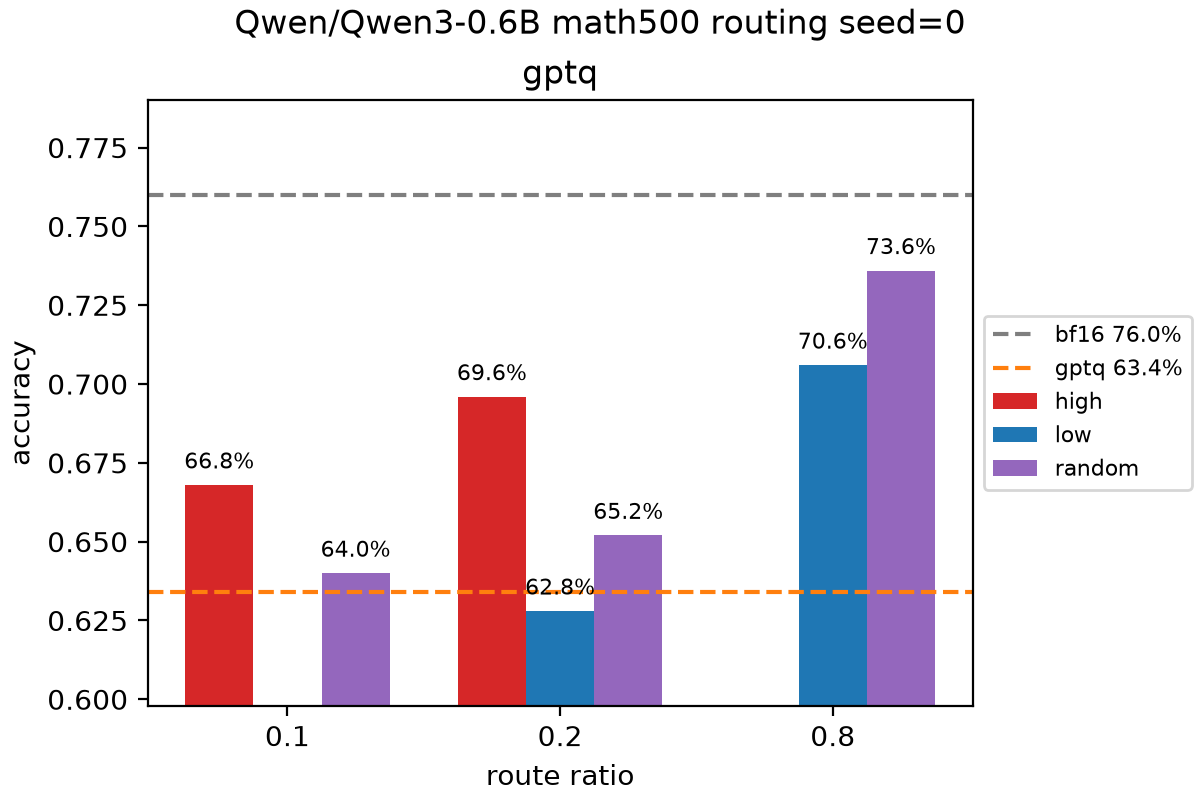
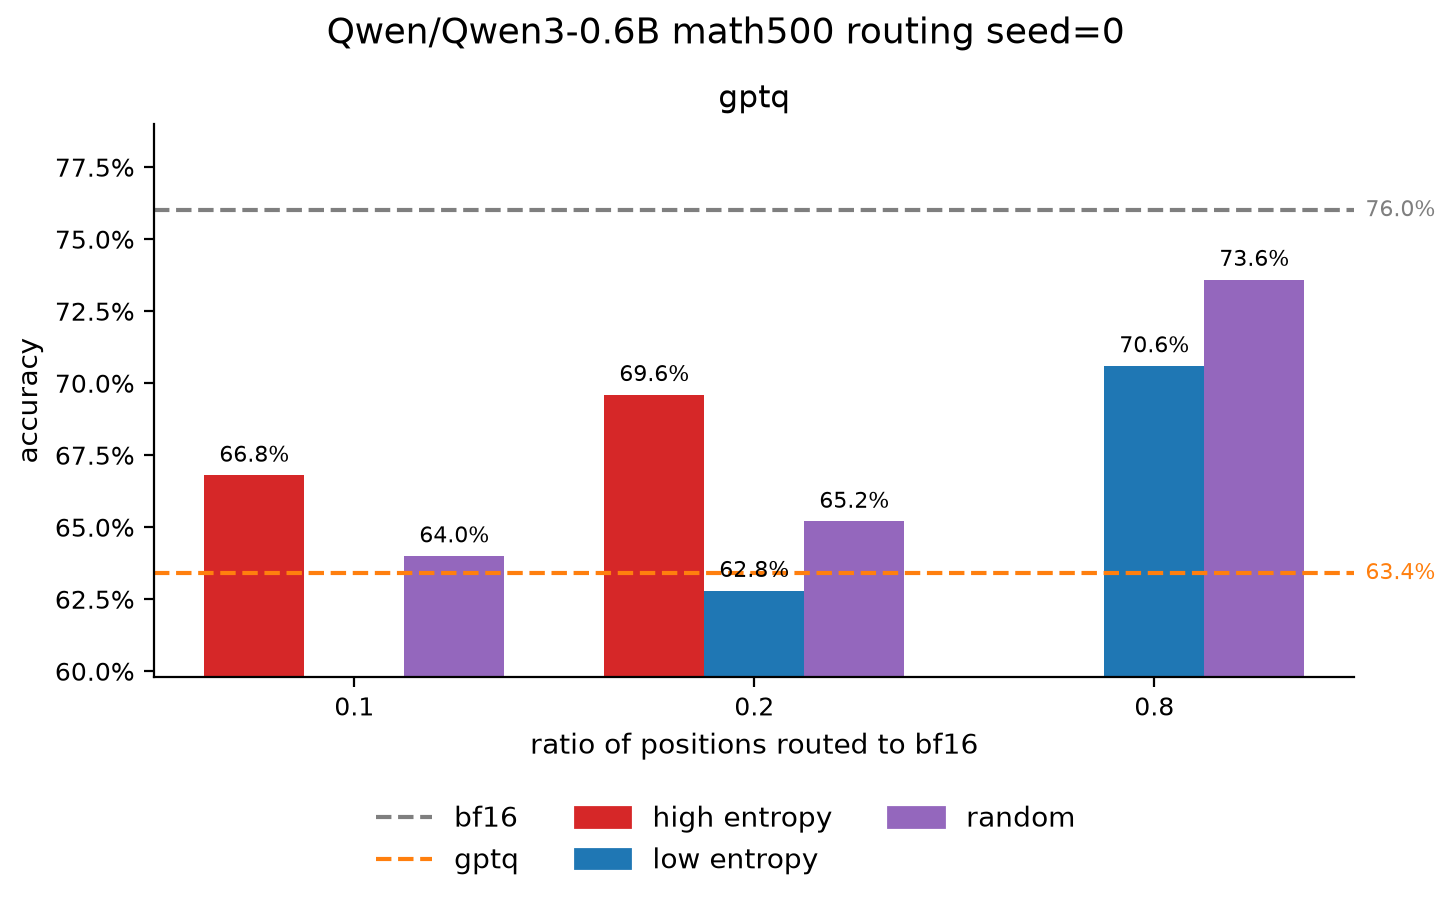
unify plot style for math500 and routing

Changed region(s): [[0.0, 0.125, 1.0, 1.0], [0.185, 0.0, 0.8017, 0.125]]

diff --git a/plots/routing.py b/plots/routing.py
@@ -1,13 +1,18 @@
 from dataclasses import dataclass
+import math
 
+from matplotlib.lines import Line2D
+from matplotlib.patches import Patch
 import matplotlib.pyplot as plt
+from matplotlib.ticker import PercentFormatter
 from simple_parsing import parse
 
 from primitives.hub import load_result, result_exists
 from primitives.paths import make_quantized_path, make_routing_path, make_target_path
-from primitives.plot import METHOD_COLORS, save_figure
+from primitives.plot import METHOD_COLORS, fit_bar_width, get_figsize, get_panel_width, plot_bars, save_figure
 
 ROUTE_COLORS = {"high": "tab:red", "low": "tab:blue", "random": "tab:purple"}
+ROUTE_LABELS = {"high": "high entropy", "low": "low entropy", "random": "random"}
 ROUTE_RATIOS = [0.1, 0.2, 0.8]
 
 
@@ -29,31 +34,33 @@ def main() -> None:
         if result_exists("math500", make_quantized_path(method, config.model_name, config.num_bits, config.group_size, config.num_samples), file_name):
             methods.append(method)
 
-    fig, axes = plt.subplots(1, len(methods), figsize=(6 * len(methods), 4), layout="constrained", squeeze=False)
+    panel_widths = [get_panel_width(len(ROUTE_RATIOS), len(ROUTE_COLORS))] * len(methods)
+    fig, axes = plt.subplots(1, len(methods), figsize=get_figsize(panel_widths, 1), width_ratios=panel_widths, layout="constrained", squeeze=False)
     for ax, method in zip(axes[0], methods):
         quantized_path = make_quantized_path(method, config.model_name, config.num_bits, config.group_size, config.num_samples)
-        ax.axhline(bf16_accuracy, color=METHOD_COLORS["bf16"], linestyle="--", label=f"bf16 {bf16_accuracy:.1%}")
         quantized_accuracy = load_result("math500", quantized_path, file_name)["accuracy"]
-        ax.axhline(quantized_accuracy, color=METHOD_COLORS[method], linestyle="--", label=f"{method} {quantized_accuracy:.1%}")
-        all_accuracies = [bf16_accuracy, quantized_accuracy]
-        for offset, (route, color) in zip([-0.25, 0, 0.25], ROUTE_COLORS.items()):
-            xs, accuracies = [], []
-            for x, route_ratio in enumerate(ROUTE_RATIOS):
+        for line_method, line_accuracy in [("bf16", bf16_accuracy), (method, quantized_accuracy)]:
+            ax.axhline(line_accuracy, color=METHOD_COLORS[line_method], linestyle="--")
+            ax.annotate(f"{line_accuracy:.1%}", (1, line_accuracy), xycoords=("axes fraction", "data"), xytext=(4, 0), textcoords="offset points", va="center", fontsize=8, color=METHOD_COLORS[line_method])
+        groups = []
+        for route, color in ROUTE_COLORS.items():
+            accuracies = []
+            for route_ratio in ROUTE_RATIOS:
                 target = make_routing_path(quantized_path, route_ratio, route)
-                if result_exists("math500", target, file_name):
-                    xs.append(x + offset)
-                    accuracies.append(load_result("math500", target, file_name)["accuracy"])
-            ax.bar(xs, accuracies, width=0.25, color=color, label=route)
-            all_accuracies += accuracies
-            for x, accuracy in zip(xs, accuracies):
-                ax.annotate(f"{accuracy:.1%}", (x, accuracy), xytext=(0, 4), textcoords="offset points", ha="center", va="bottom", fontsize=8)
-        ax.set_xticks(range(len(ROUTE_RATIOS)), ROUTE_RATIOS)
-        ax.set_xlabel("route ratio")
+                accuracies.append(load_result("math500", target, file_name)["accuracy"] if result_exists("math500", target, file_name) else math.nan)
+            groups.append((accuracies, color, ["" if math.isnan(accuracy) else f"{accuracy:.1%}" for accuracy in accuracies]))
+        plot_bars(ax, ROUTE_RATIOS, groups)
+        all_accuracies = [bf16_accuracy, quantized_accuracy] + [accuracy for accuracies, _, _ in groups for accuracy in accuracies if not math.isnan(accuracy)]
+        ax.set_xlabel("ratio of positions routed to bf16")
         ax.set_ylabel("accuracy")
         ax.set_ylim(min(all_accuracies) - 0.03, max(all_accuracies) + 0.03)
+        ax.yaxis.set_major_formatter(PercentFormatter(1))
         ax.set_title(method)
-        ax.legend(fontsize=8, loc="center left", bbox_to_anchor=(1, 0.5))
     fig.suptitle(f"{config.model_name} math500 routing {file_name}")
+    handles = [Line2D([], [], color=METHOD_COLORS[method], linestyle="--", label=method) for method in ["bf16", *methods]]
+    handles += [Patch(color=color, label=ROUTE_LABELS[route]) for route, color in ROUTE_COLORS.items()]
+    fig.legend(handles=handles, loc="outside lower center", ncol=3)
+    fit_bar_width(fig, axes[0])
     save_figure(fig, config.model_name, "routing")
 
 

diff --git a/primitives/plot.py b/primitives/plot.py
@@ -3,8 +3,13 @@ import re
 
 from matplotlib.axes import Axes
 from matplotlib.figure import Figure
+import matplotlib.pyplot as plt
 
 METHOD_COLORS = {"bf16": "tab:gray", "gptq": "tab:orange", "awq": "tab:green"}
+BAR_INCHES = 0.5
+BAR_GAP = 1
+PANEL_HEIGHT = 3.5
+PANEL_MARGIN = 0.9
 STOPWORDS = {"the", "an", "is", "are", "was", "were", "be", "been", "being", "am", "it", "it's", "its", "this", "that", "that's", "these", "those", "of", "to", "in", "on", "at", "by", "with", "from", "as", "into", "for", "and", "or", "we", "me", "my", "our", "us", "you", "your", "he", "she", "they", "them", "their", "his", "her", "there", "there's", "here", "which", "what", "where", "who", "how", "has", "have", "had", "do", "does", "did", "can", "could", "would", "will"}
 MARKERS = {
     "doubt": ["wait", "but", "however", "hmm", "wrong"],
@@ -12,12 +17,69 @@ MARKERS = {
     "check": ["verify", "confirm", "remember", "sure"],
 }
 
+plt.rcParams.update({
+    "figure.titlesize": 13,
+    "figure.constrained_layout.w_pad": 0.08,
+    "figure.constrained_layout.h_pad": 0.08,
+    "figure.constrained_layout.wspace": 0.08,
+    "figure.constrained_layout.hspace": 0.08,
+    "axes.titlesize": 11,
+    "axes.labelsize": 10,
+    "axes.spines.top": False,
+    "axes.spines.right": False,
+    "xtick.labelsize": 9,
+    "ytick.labelsize": 9,
+    "legend.fontsize": 10,
+    "legend.frameon": False,
+    "savefig.dpi": 200,
+})
+
 
 def get_words(
     text: str,
 ) -> list[str]:
     words = re.findall(r"(?<![\\a-z])[a-z]+(?:'[a-z]+)?(?:-[a-z]{2,})*", text.lower())
     return [word for word in words if len(word) > 1 and word not in STOPWORDS]
+
+
+def get_panel_width(
+    num_slots: int,
+    num_groups: int,
+) -> float:
+    return BAR_INCHES * num_slots * (num_groups + BAR_GAP)
+
+
+def get_figsize(
+    panel_widths: list[float],
+    num_rows: int,
+) -> tuple[float, float]:
+    return sum(panel_widths) + PANEL_MARGIN * len(panel_widths), PANEL_HEIGHT * num_rows + 1
+
+
+def plot_bars(
+    ax: Axes,
+    labels: list[str],
+    groups: list[tuple[list[float], str | list[str], list[str]]],
+) -> None:
+    slot_width = len(groups) + BAR_GAP
+    for index, (values, color, texts) in enumerate(groups):
+        xs = [slot * slot_width + index - (len(groups) - 1) / 2 for slot in range(len(labels))]
+        ax.bar(xs, values, width=1, color=color)
+        for x, value, text in zip(xs, values, texts):
+            ax.annotate(text, (x, value), xytext=(0, 3), textcoords="offset points", ha="center", va="bottom", fontsize=8)
+    ax.set_xticks([slot * slot_width for slot in range(len(labels))], labels)
+    ax.set_xlim(-slot_width / 2, (len(labels) - 0.5) * slot_width)
+
+
+def fit_bar_width(
+    fig: Figure,
+    axes: list[Axes],
+) -> None:
+    for _ in range(2):
+        fig.canvas.draw()
+        axes_width = sum(ax.get_window_extent().width for ax in axes) / fig.dpi
+        num_bars = sum(ax.get_xlim()[1] - ax.get_xlim()[0] for ax in axes)
+        fig.set_figwidth(fig.get_figwidth() + BAR_INCHES * num_bars - axes_width)
 
 
 def plot_words(
@@ -40,7 +102,7 @@ def plot_words(
                 ax.annotate(f"{value:.2f}", (value, y + offset), xytext=(4, 0), textcoords="offset points", va="center", fontsize=8)
         ax.set_yticks(ys, group_words)
         ax.invert_yaxis()
-        ax.margins(x=0.1)
+        ax.margins(x=0.25)
         ax.set_title(f"{title}\n{group}", fontsize=10)
         ax.set_xlabel(xlabel)
 
@@ -52,6 +114,5 @@ def save_figure(
 ) -> None:
     path = Path(f"figures/{model_name.split('/')[-1]}/{name}.png")
     path.parent.mkdir(parents=True, exist_ok=True)
-    fig.get_layout_engine().set(wspace=0.1, hspace=0.1)
-    fig.savefig(path, dpi=200)
+    fig.savefig(path)
     print(f"saved {path}")

diff --git a/plots/math500.py b/plots/math500.py
@@ -2,11 +2,12 @@ from dataclasses import dataclass
 from statistics import mean, median
 
 import matplotlib.pyplot as plt
+from matplotlib.ticker import PercentFormatter
 from simple_parsing import parse
 
 from primitives.hub import load_result, result_exists
 from primitives.paths import make_target_path
-from primitives.plot import METHOD_COLORS, save_figure
+from primitives.plot import METHOD_COLORS, fit_bar_width, get_figsize, get_panel_width, plot_bars, save_figure
 
 
 @dataclass
@@ -44,21 +45,21 @@ def main() -> None:
         loops.append(mean(is_loop(think) for think in result["thinks"]))
     panels = [
         ("accuracy", accuracies, [f"{accuracy:.1%}\ntruncated {truncated:.1%}" for accuracy, truncated in zip(accuracies, truncateds)]),
-        ("reasoning tokens / bf16 (median)", ratios, [f"{ratio:.2f}x" for ratio in ratios]),
-        ("loop ratio", loops, [f"{loop:.1%}" for loop in loops]),
+        ("median reasoning tokens / bf16, both correct", ratios, [f"{ratio:.2f}x" for ratio in ratios]),
+        ("looped reasoning ratio", loops, [f"{loop:.1%}" for loop in loops]),
     ]
 
-    fig, axes = plt.subplots(1, len(panels), figsize=((1 + len(methods)) * len(panels), 4), layout="constrained")
+    panel_widths = [get_panel_width(len(methods), 1)] * len(panels)
+    fig, axes = plt.subplots(1, len(panels), figsize=get_figsize(panel_widths, 1), width_ratios=panel_widths, layout="constrained")
     for ax, (ylabel, values, texts) in zip(axes, panels):
-        ax.bar(range(len(methods)), values, width=0.4, color=[METHOD_COLORS[method] for method in methods])
-        for x, (value, text) in enumerate(zip(values, texts)):
-            ax.annotate(text, (x, value), xytext=(0, 4), textcoords="offset points", ha="center", va="bottom", fontsize=8)
-        ax.set_xticks(range(len(methods)), methods)
-        ax.set_xlim(-0.75, len(methods) - 0.25)
+        plot_bars(ax, methods, [(values, [METHOD_COLORS[method] for method in methods], texts)])
         ax.set_ylabel(ylabel)
         ax.margins(y=0.2)
         ax.set_ylim(bottom=0)
+    for ax in [axes[0], axes[2]]:
+        ax.yaxis.set_major_formatter(PercentFormatter(1, decimals=0))
     fig.suptitle(f"{config.model_name} math500 {file_name}")
+    fit_bar_width(fig, axes)
     save_figure(fig, config.model_name, "math500")
 
 
